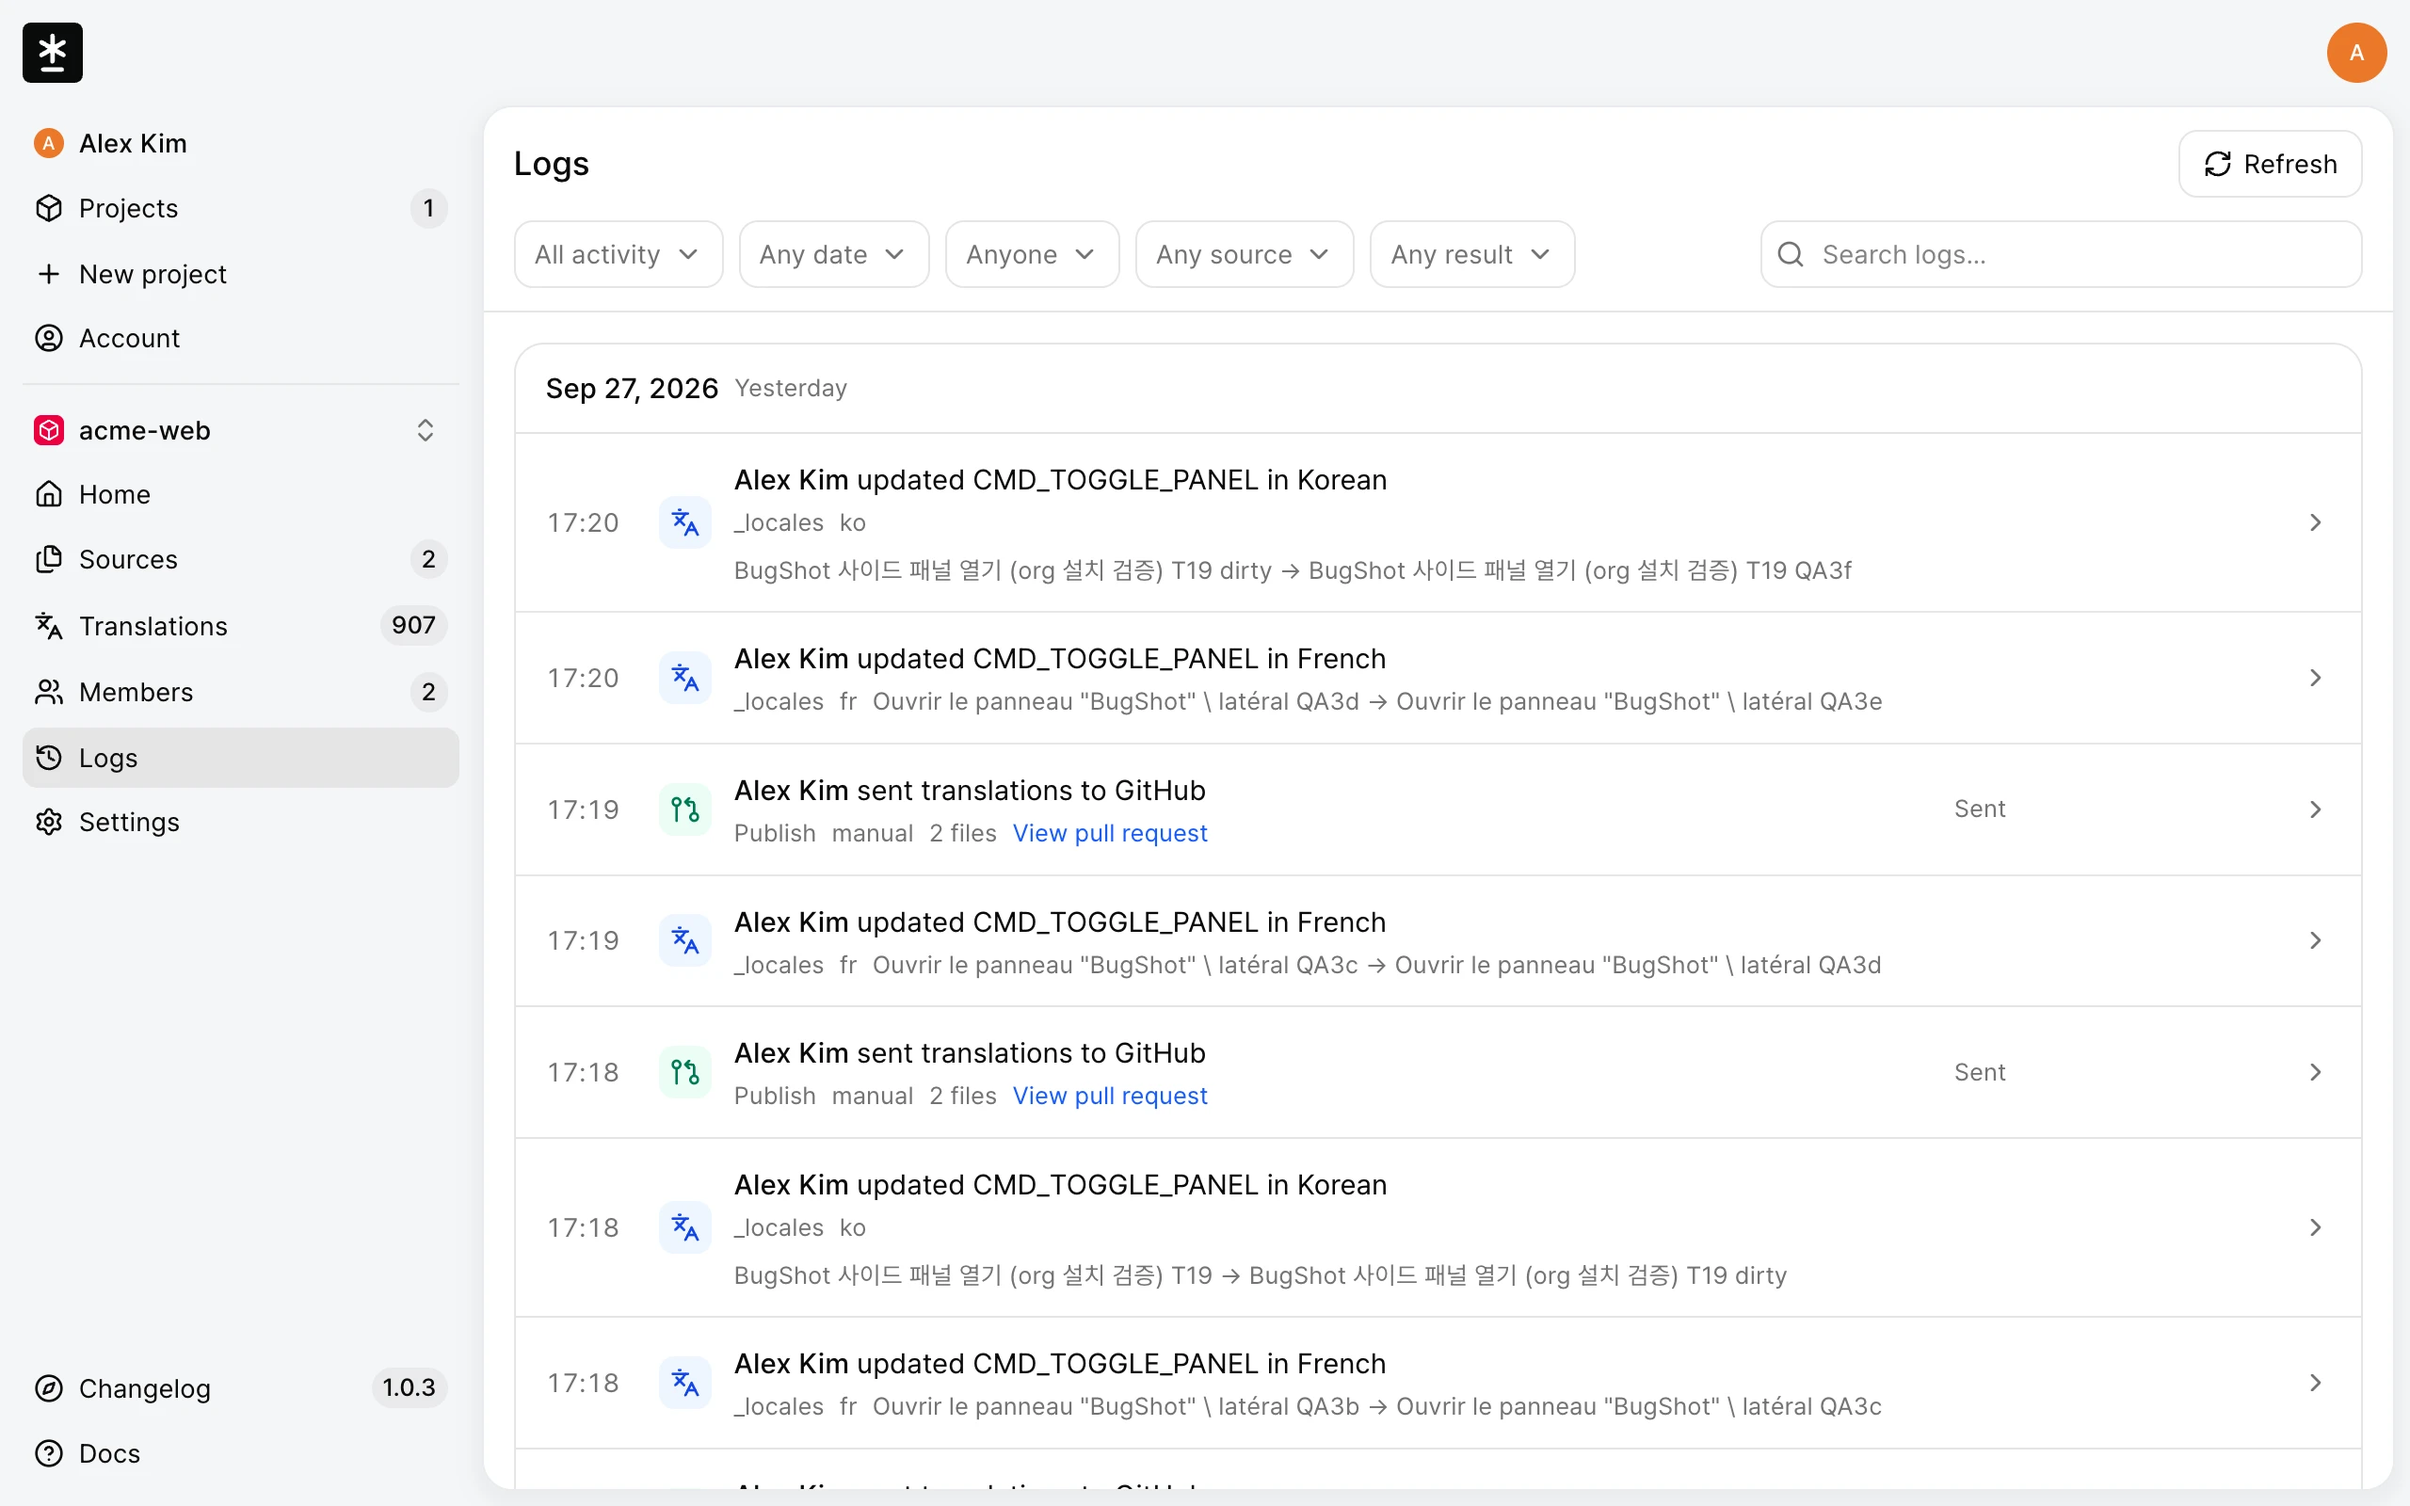
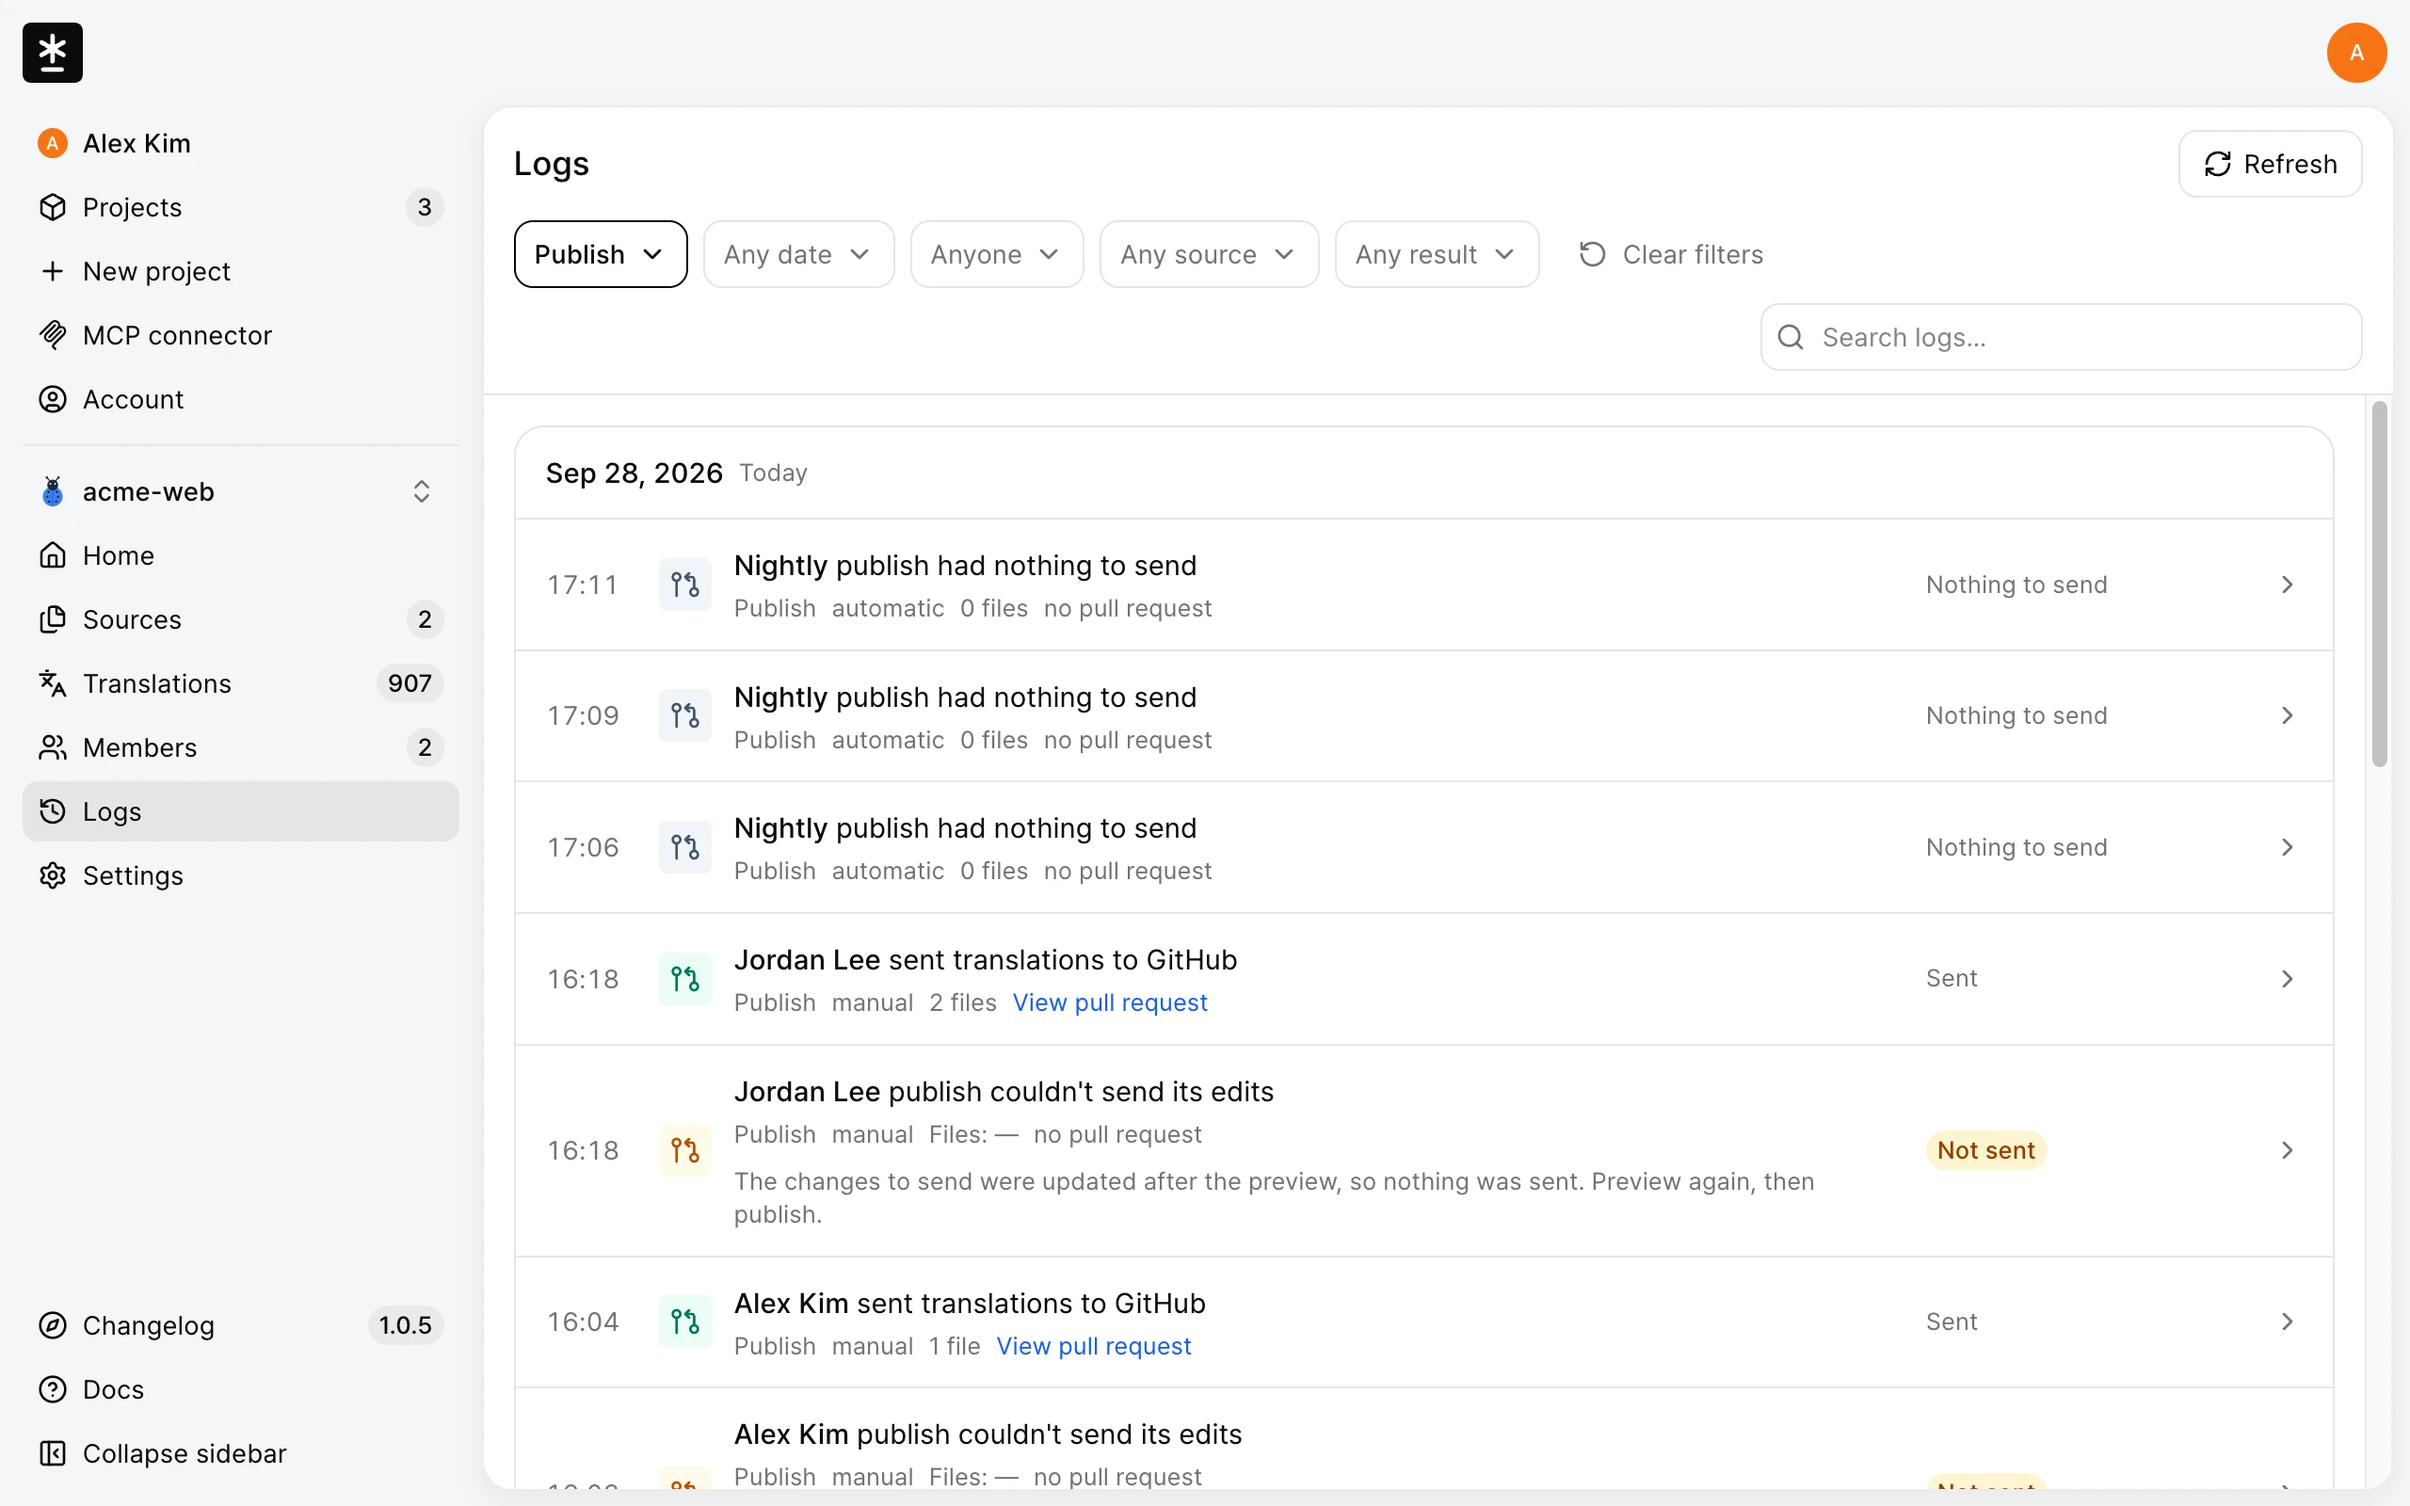
docs(README): reshoot the hero and Logs images

diff --git a/README.md b/README.md
@@ -84,7 +84,7 @@ before and after. History is kept for the life of the project.
 
 </td>
 <td width="50%">
-  <img src="docs/assets/readme/logs.webp" alt="Logs listing translation edits and publishes to GitHub, grouped by UTC date" width="100%" />
+  <img src="docs/assets/readme/logs.webp" alt="Logs filtered to Publish, listing sent, not-sent, and nothing-to-send runs grouped by UTC date" width="100%" />
 </td>
 </tr>
 <tr>
